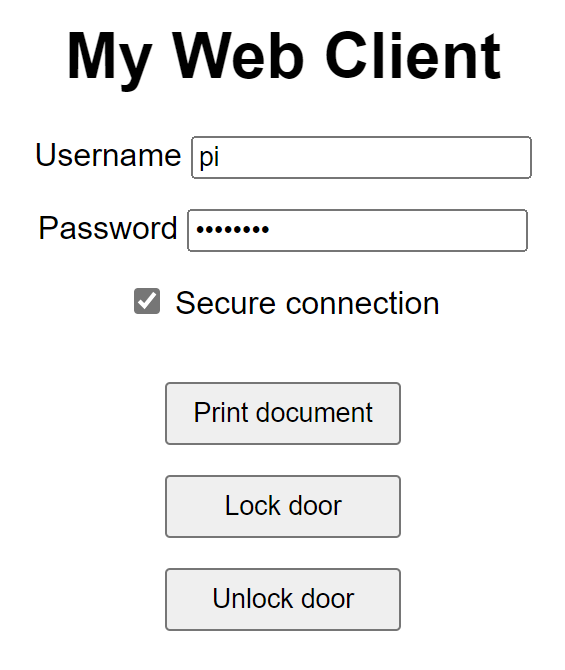
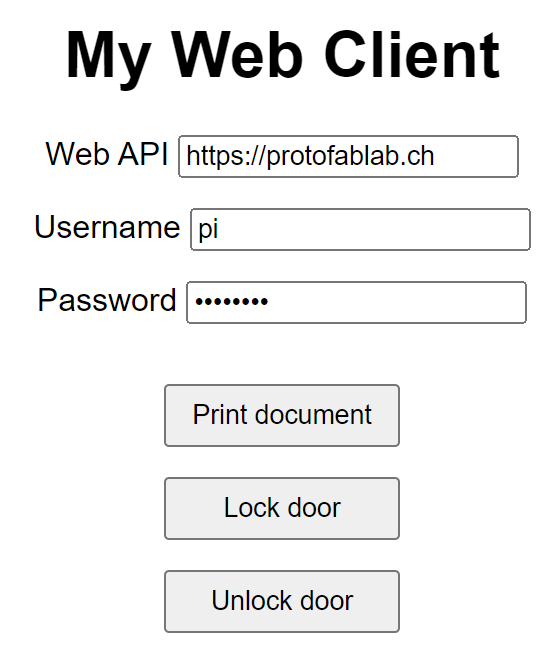
group 02 - add web API address field in client

diff --git a/topics/02_raspPI/web_api/web_client.html b/topics/02_raspPI/web_api/web_client.html
@@ -40,13 +40,13 @@
 
     <div id="credentials">
         <label>
+            Web API <input id="apiRoot" type="text"/>
+        </label>
+        <label>
             Username <input id="user" type="text"/>
         </label>
         <label>
             Password <input id="pass" type="password"/>
-        </label>
-        <label>
-            <input type="checkbox" id="secure" checked/> Secure connection
         </label>
     </div>
 
@@ -58,13 +58,11 @@
     <p id="loading" class="hidden">Loading...</p>
 </main>
 <script>
-    const apiRoot = "protofablab.ch"
+    apiRoot.value = localStorage.getItem("api") ?? "https://protofablab.ch"
 
     // load credentials, if saved
     const credentials = localStorage.getItem("credentials")
     if (credentials) [user.value, pass.value] = atob(credentials).split(":")
-
-    secure.checked = localStorage.getItem("secure") !== "false"
 
     printButton.addEventListener("click", async _ => post("/print"))
     lockButton.addEventListener("click", async _ => post("/door", {action: "lock"}))
@@ -76,16 +74,17 @@
         loading.classList.toggle("hidden")
 
         try {
+            // save API root address
+            if (!apiRoot.value.includes("://"))
+                apiRoot.value = "http://" + apiRoot.value
+            localStorage.setItem("api", apiRoot.value)
+
             // save credentials (unsafe! for demo purpose only)
             const credentials = btoa(`${user.value}:${pass.value}`)
             localStorage.setItem("credentials", credentials)
 
-            // use HTTPS for secure connection
-            const scheme = secure.checked ? "https://" : "http://"
-            localStorage.setItem("secure", secure.checked)
-
             // send POST request to web api
-            const res = await fetch(`${scheme}${apiRoot}${url}`, {
+            const res = await fetch(`${apiRoot.value}${url}`, {
                 method: "POST",
                 body: JSON.stringify(body),
                 headers: {
